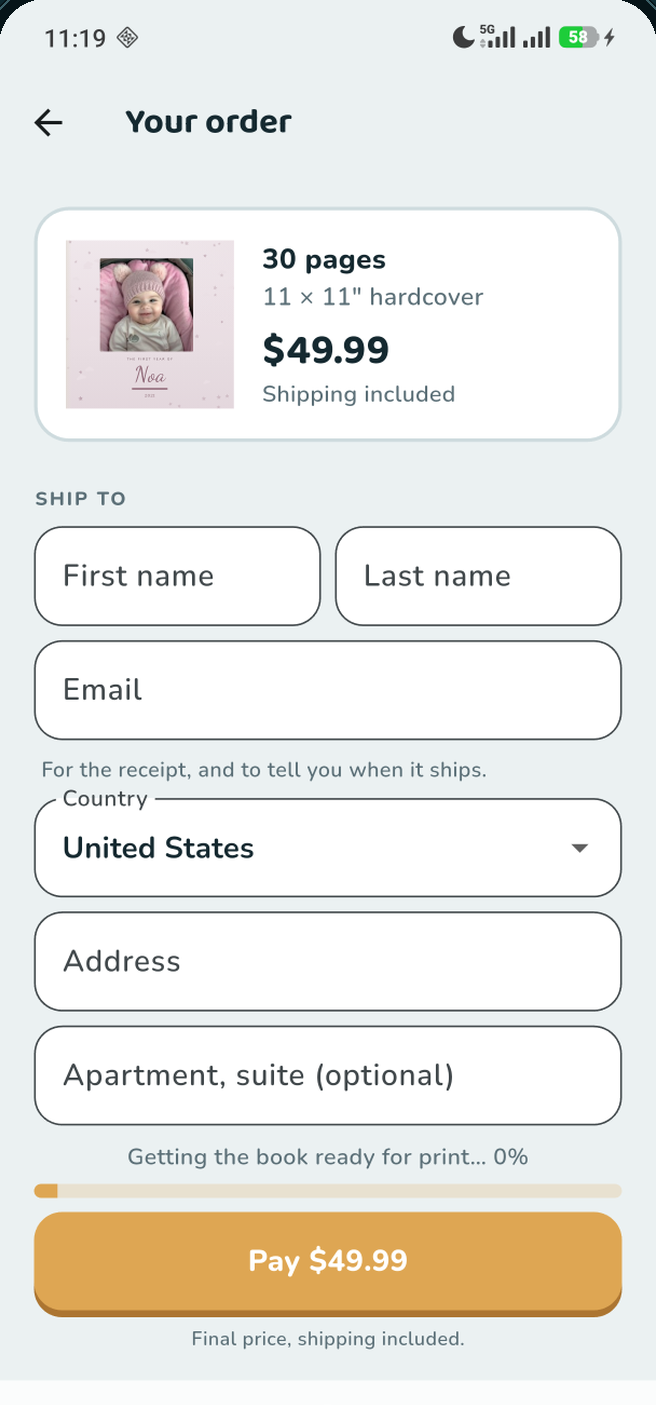
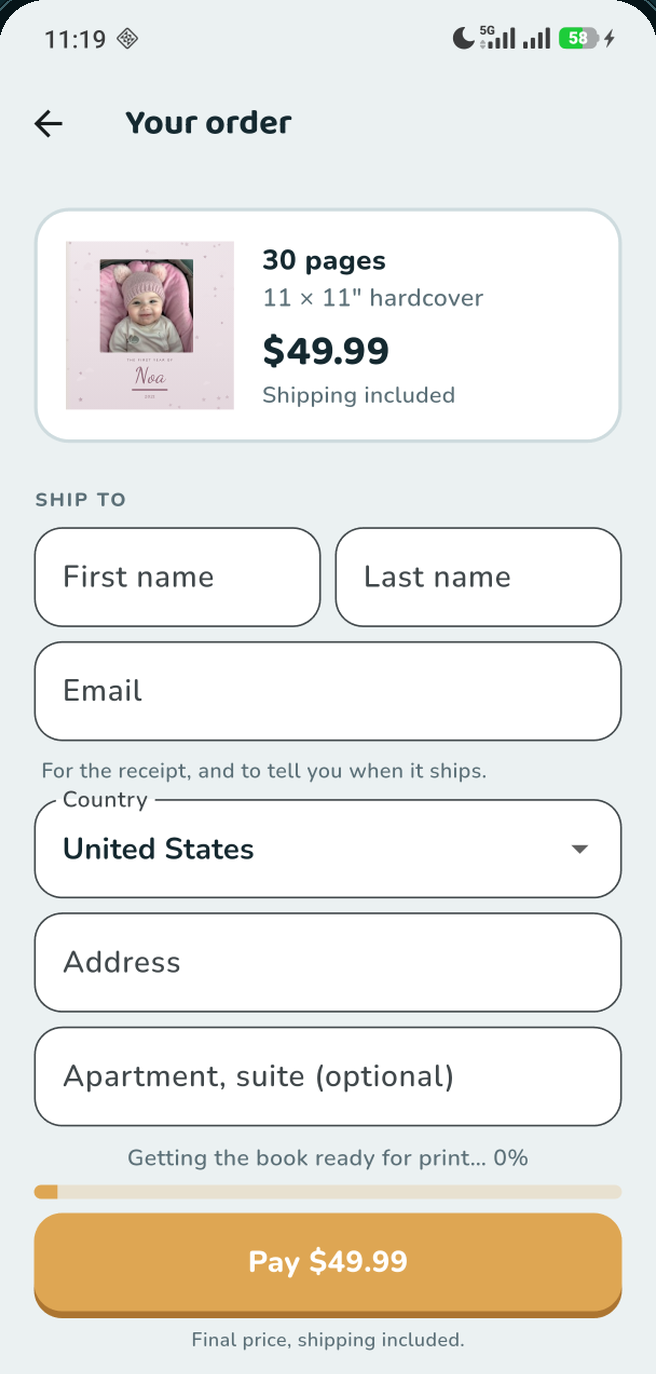
Whole phones, a fuller month spread, info@babybookai.com
- App screens are cut where a phone's display would end and the bezel
  closes round them; they no longer look cropped at the bottom.
- The month spread is a large photo and a grid of six, family photos
  included (Carlos), the best framed of the store screenshots; the
  pacifier photo with its green cast is gone.
- Visitors write to info@babybookai.com, forwarded to
  info@photo-to-text.com.

diff --git a/src/lib/photos.ts b/src/lib/photos.ts
@@ -1,27 +1,42 @@
 import type { ImageMetadata } from 'astro';
 
-import noaPortrait from '../assets/app/noa-portrait.png';
-import noaPacifier from '../assets/app/noa-pacifier.png';
+import m6Hero from '../assets/app/month6-hero.png';
+import m6Playmat from '../assets/app/month6-playmat.png';
+import m6Dad from '../assets/app/month6-dad.png';
+import m6Grandparents from '../assets/app/month6-grandparents.png';
+import noaStroller from '../assets/app/noa-stroller.png';
+import noaHat from '../assets/app/noa-hat.png';
+import noaCrib from '../assets/app/noa-crib.png';
 import screenSetup from '../assets/app/screen-setup.png';
 import screenSelection from '../assets/app/screen-selection.png';
 import screenOrder from '../assets/app/screen-order.png';
 
 /**
  * Real material from the app (the store screenshots in librofotos
- * tool/out/store_noa), cropped. Only photos in which Noa appears alone: the
- * ones with family in them stay out of the site, which paid ads also use.
+ * tool/out/store_noa), cropped. Carlos (Oct 2026): photos with the family in
+ * them may be used too, not only those of Noa alone.
  */
 export type Photo = { src: ImageMetadata; alt: string };
 
-/** A month spread with two photos: the large one left, the other right. */
-export const NOA_SPREAD: Photo[] = [
-  { src: noaPortrait, alt: 'A baby girl lying on her tummy, looking at the camera' },
-  { src: noaPacifier, alt: 'A baby with a pacifier on a green sofa, next to a plush dog' },
+/**
+ * A month spread: the large photo on the left page (Noa's sixth month in
+ * store screenshot 3), then the right page's grid, row by row: the best
+ * framed of screenshots 3 and 5. They are small (about 200 px), which is
+ * what a grid cell needs.
+ */
+export const MONTH_SIX: Photo[] = [
+  { src: m6Hero, alt: 'A baby sitting on her mother’s lap, playing with building blocks' },
+  { src: noaStroller, alt: 'A baby laughing in her stroller' },
+  { src: m6Playmat, alt: 'A baby on her tummy on a colorful play mat' },
+  { src: m6Dad, alt: 'A baby next to her smiling father on the sofa' },
+  { src: noaHat, alt: 'A baby in a pink knitted hat with pompoms, smiling' },
+  { src: noaCrib, alt: 'A baby in a flowered dress smiling in her crib' },
+  { src: m6Grandparents, alt: 'Grandparents holding the baby and her cousin' },
 ];
 
-/** App screens, cropped to the phone's display. No people in any of them. */
+/** App screens, cut where a phone's display ends. No people in any of them. */
 export const SCREENS = {
   setup: { src: screenSetup, alt: 'BabyBookAI setup screen: a name and a birthday, then the book length and price' },
   selection: { src: screenSelection, alt: 'BabyBookAI results screen: 157 photos kept, shown by month' },
-  order: { src: screenOrder, alt: 'BabyBookAI order screen: 30 pages, 11 × 11 in hardcover, $49.99, shipping included' },
+  order: { src: screenOrder, alt: 'BabyBookAI order screen: 30 pages, 11 × 11 in hardcover, shipping included' },
 } satisfies Record<string, Photo>;

diff --git a/src/config/site.ts b/src/config/site.ts
@@ -12,8 +12,11 @@ export const SITE = {
   defaultDescription:
     'BabyBookAI turns the photos already on your phone into a printed hardcover book of your baby’s first year. It picks, sorts and lays out the photos for you.',
   defaultOgImage: '/og/default.png',
-  /** The store listings' contact, and the privacy policy's. */
-  supportEmail: 'info@photo-to-text.com',
+  /**
+   * Where visitors write. Cloudflare Email Routing forwards it to
+   * info@photo-to-text.com, the address the store listings were set up with.
+   */
+  supportEmail: 'info@babybookai.com',
 } as const;
 
 /**

diff --git a/CLAUDE.md b/CLAUDE.md
@@ -34,7 +34,9 @@ Pages, GitHub (`wordart-gift/BabyBookAI`).
 | Official store badges, unaltered, same height; one QR code (desktop only) to the `/get/` smart link, which `functions/get/[[path]].ts` sends to the right store by User-Agent | Two QR codes make the visitor pick; one works for both phones |
 | Every page ends with the download section (`#download`, from the layout) | The header's "Get the app" must work on every page |
 | **Android first, iPhone coming.** Google Play badge is live; while `STORES.appStore` is null the site shows an "App Store: coming soon" label (no Apple badge: Apple's rules cover live apps only). Set `STORES.appStore` and the badge, QR redirect and schema follow | Carlos, Oct 2026 |
-| Photos are real, from the app's store screenshots (`src/assets/app/`, cropped from `librofotos/tool/out/store_noa/`). **Only photos where Noa is alone**; never the ones with family. Unsplash stand-ins are gone | The site and paid ads are public; family members have not agreed |
+| Photos are real, from the app's store screenshots (`src/assets/app/`, cropped from `librofotos/tool/out/store_noa/`). Photos with the family may be used too; pick the best framed. Unsplash stand-ins are gone | Carlos, Oct 2026 (he first allowed only Noa alone) |
+| App screens sit in a whole phone (`PhoneShot`): the screenshots are cut just under the last button, where a display would end | A frame open at the bottom read as a cropped image |
+| Contact is **info@babybookai.com** (`SITE.supportEmail`), forwarded to info@photo-to-text.com by Cloudflare Email Routing | Carlos, Oct 2026 |
 
 ## Performance budget
 
